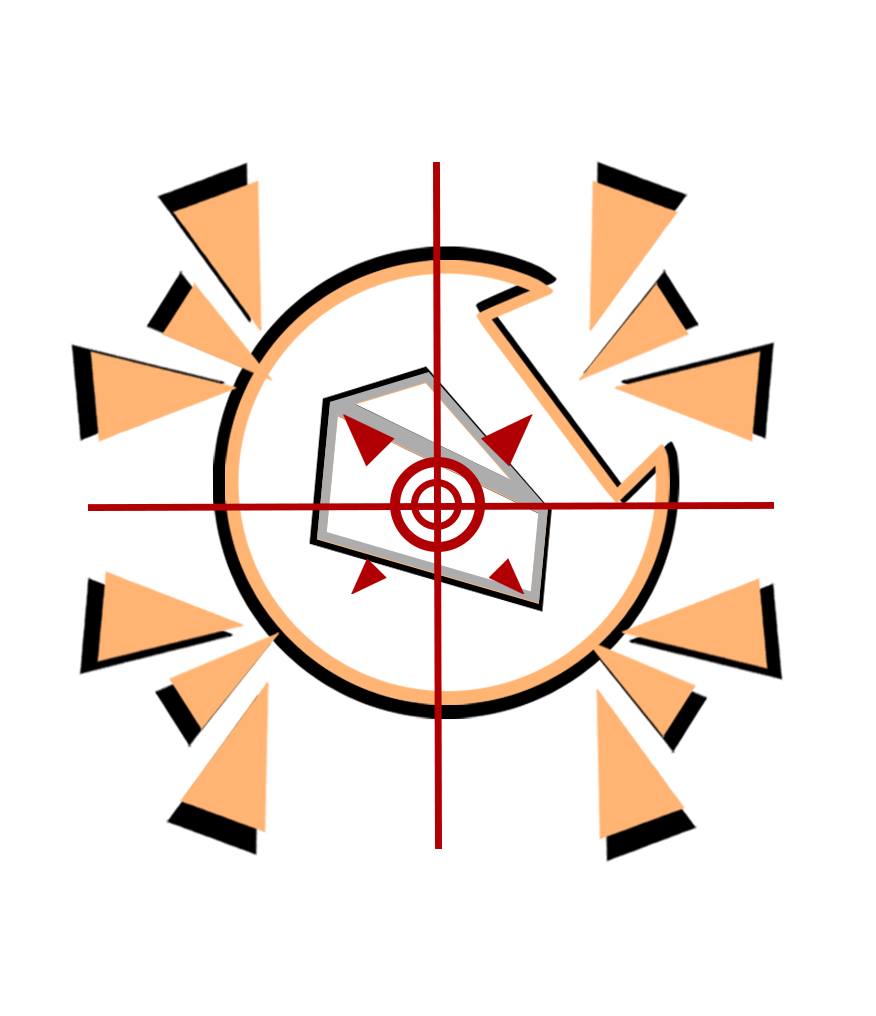
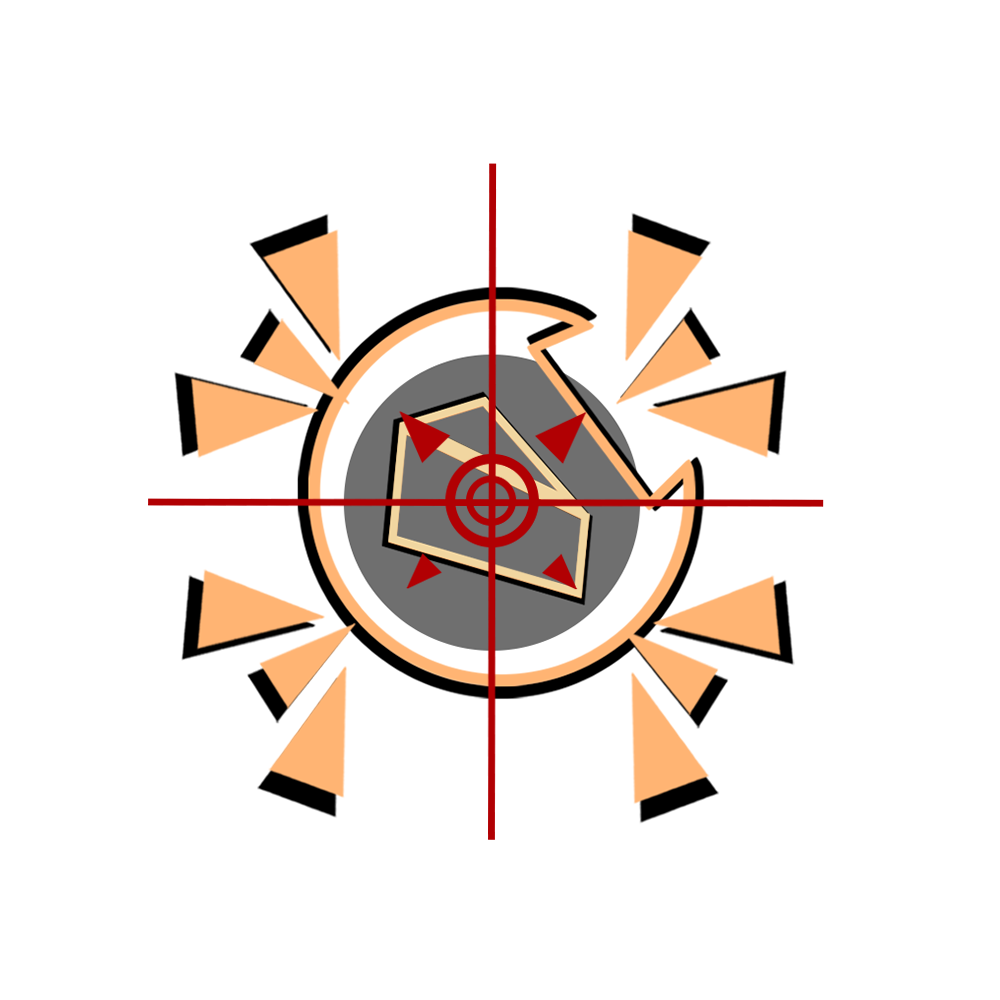
Updated Reticule Images

Changed region(s): [[0.0616, 0.155, 0.8938, 0.868]]

diff --git a/Assets/Scripts/Player/PlayerInventory.cs b/Assets/Scripts/Player/PlayerInventory.cs
@@ -136,19 +136,19 @@ public class PlayerInventory : MonoBehaviour
         switch (equippedPizza)
         {
             case PizzaType.Cheese:
-                pizzaReticule.sprite = cheeseIcon;
+                pizzaReticule.sprite = cheeseReticule;
                 pizzaIcon.sprite = cheeseIcon;
                 pizzaIconUnequipped_2.sprite = pineappleIcon;
                 pizzaIconUnequipped_3.sprite = mushroomIcon;
                 break;
             case PizzaType.Pineapple:
-                pizzaReticule.sprite = pineappleIcon;
+                pizzaReticule.sprite = pineappleReticule;
                 pizzaIcon.sprite = pineappleIcon;
                 pizzaIconUnequipped_2.sprite = mushroomIcon;
                 pizzaIconUnequipped_3.sprite = cheeseIcon;
                 break;
             case PizzaType.Mushroom:
-                pizzaReticule.sprite = mushroomIcon;
+                pizzaReticule.sprite = mushroomReticule;
                 pizzaIcon.sprite = mushroomIcon;
                 pizzaIconUnequipped_2.sprite = cheeseIcon;
                 pizzaIconUnequipped_3.sprite = pineappleIcon;
